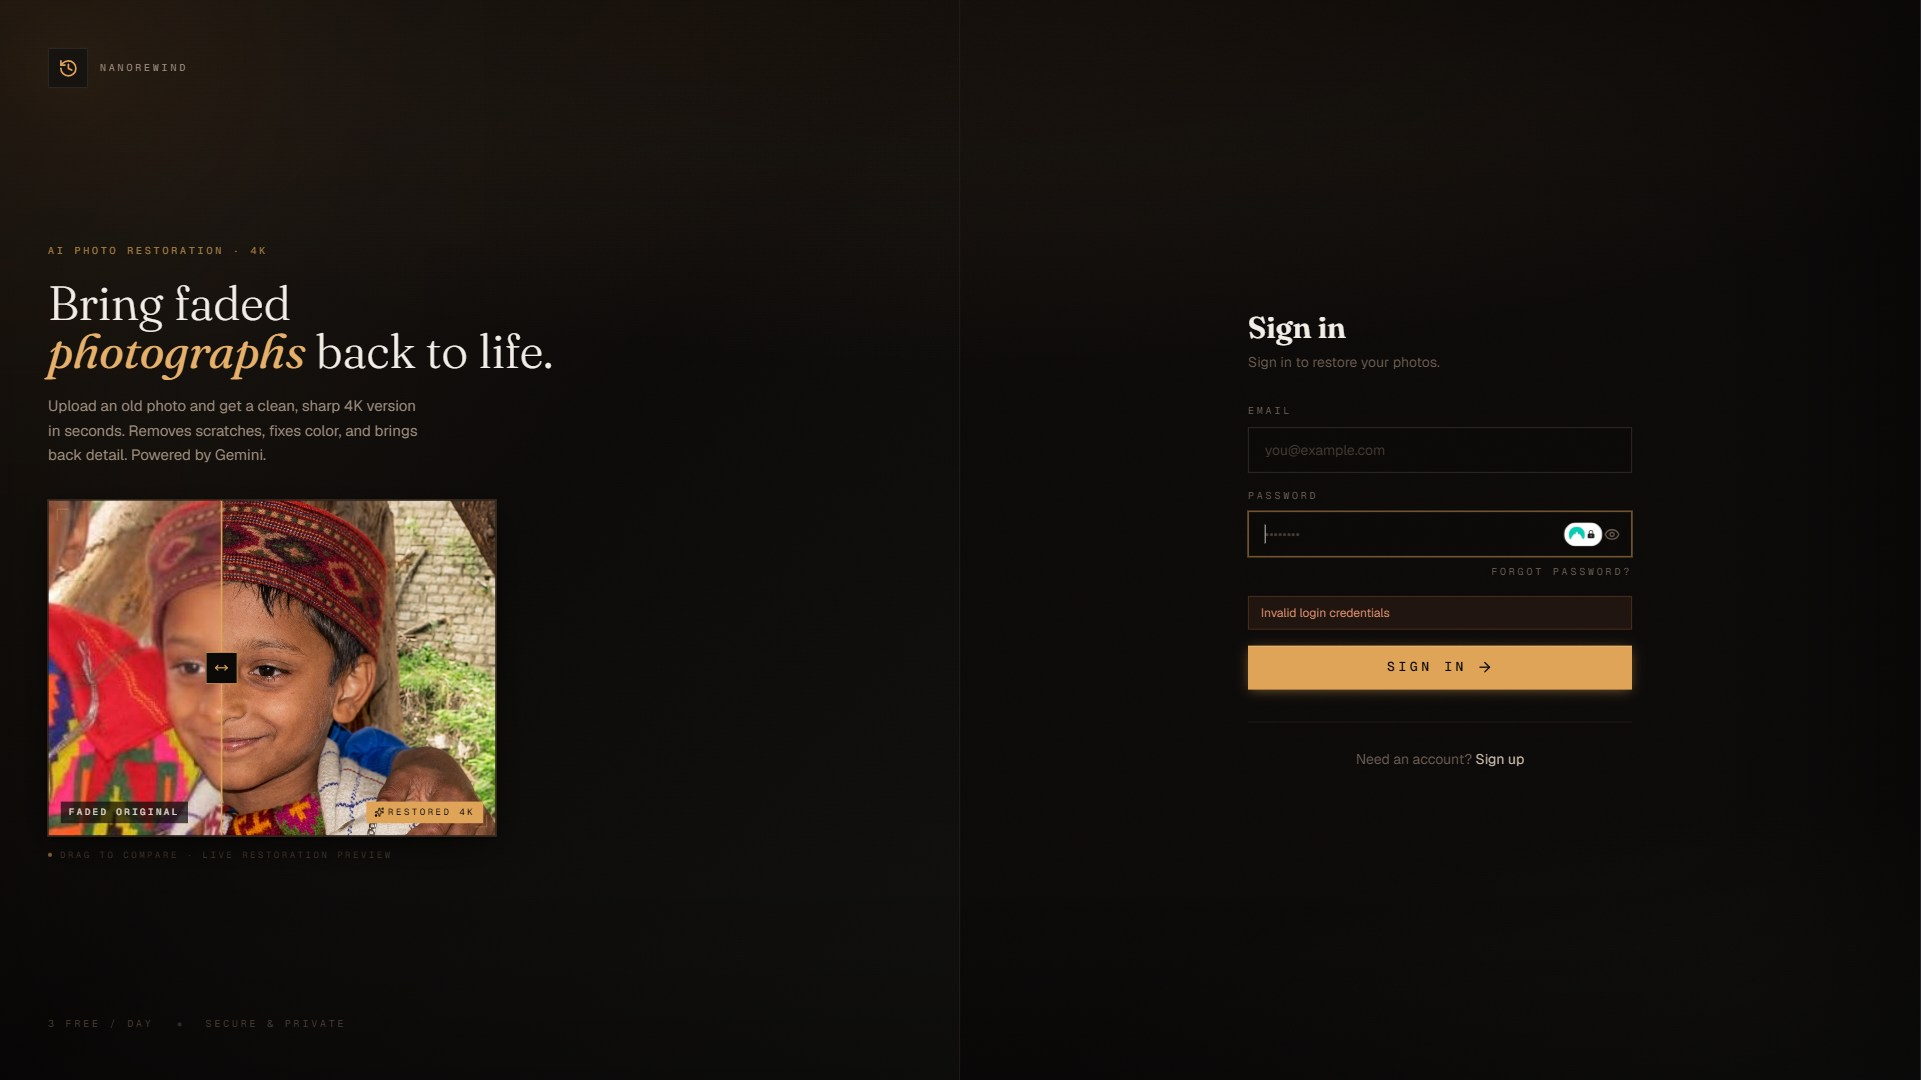
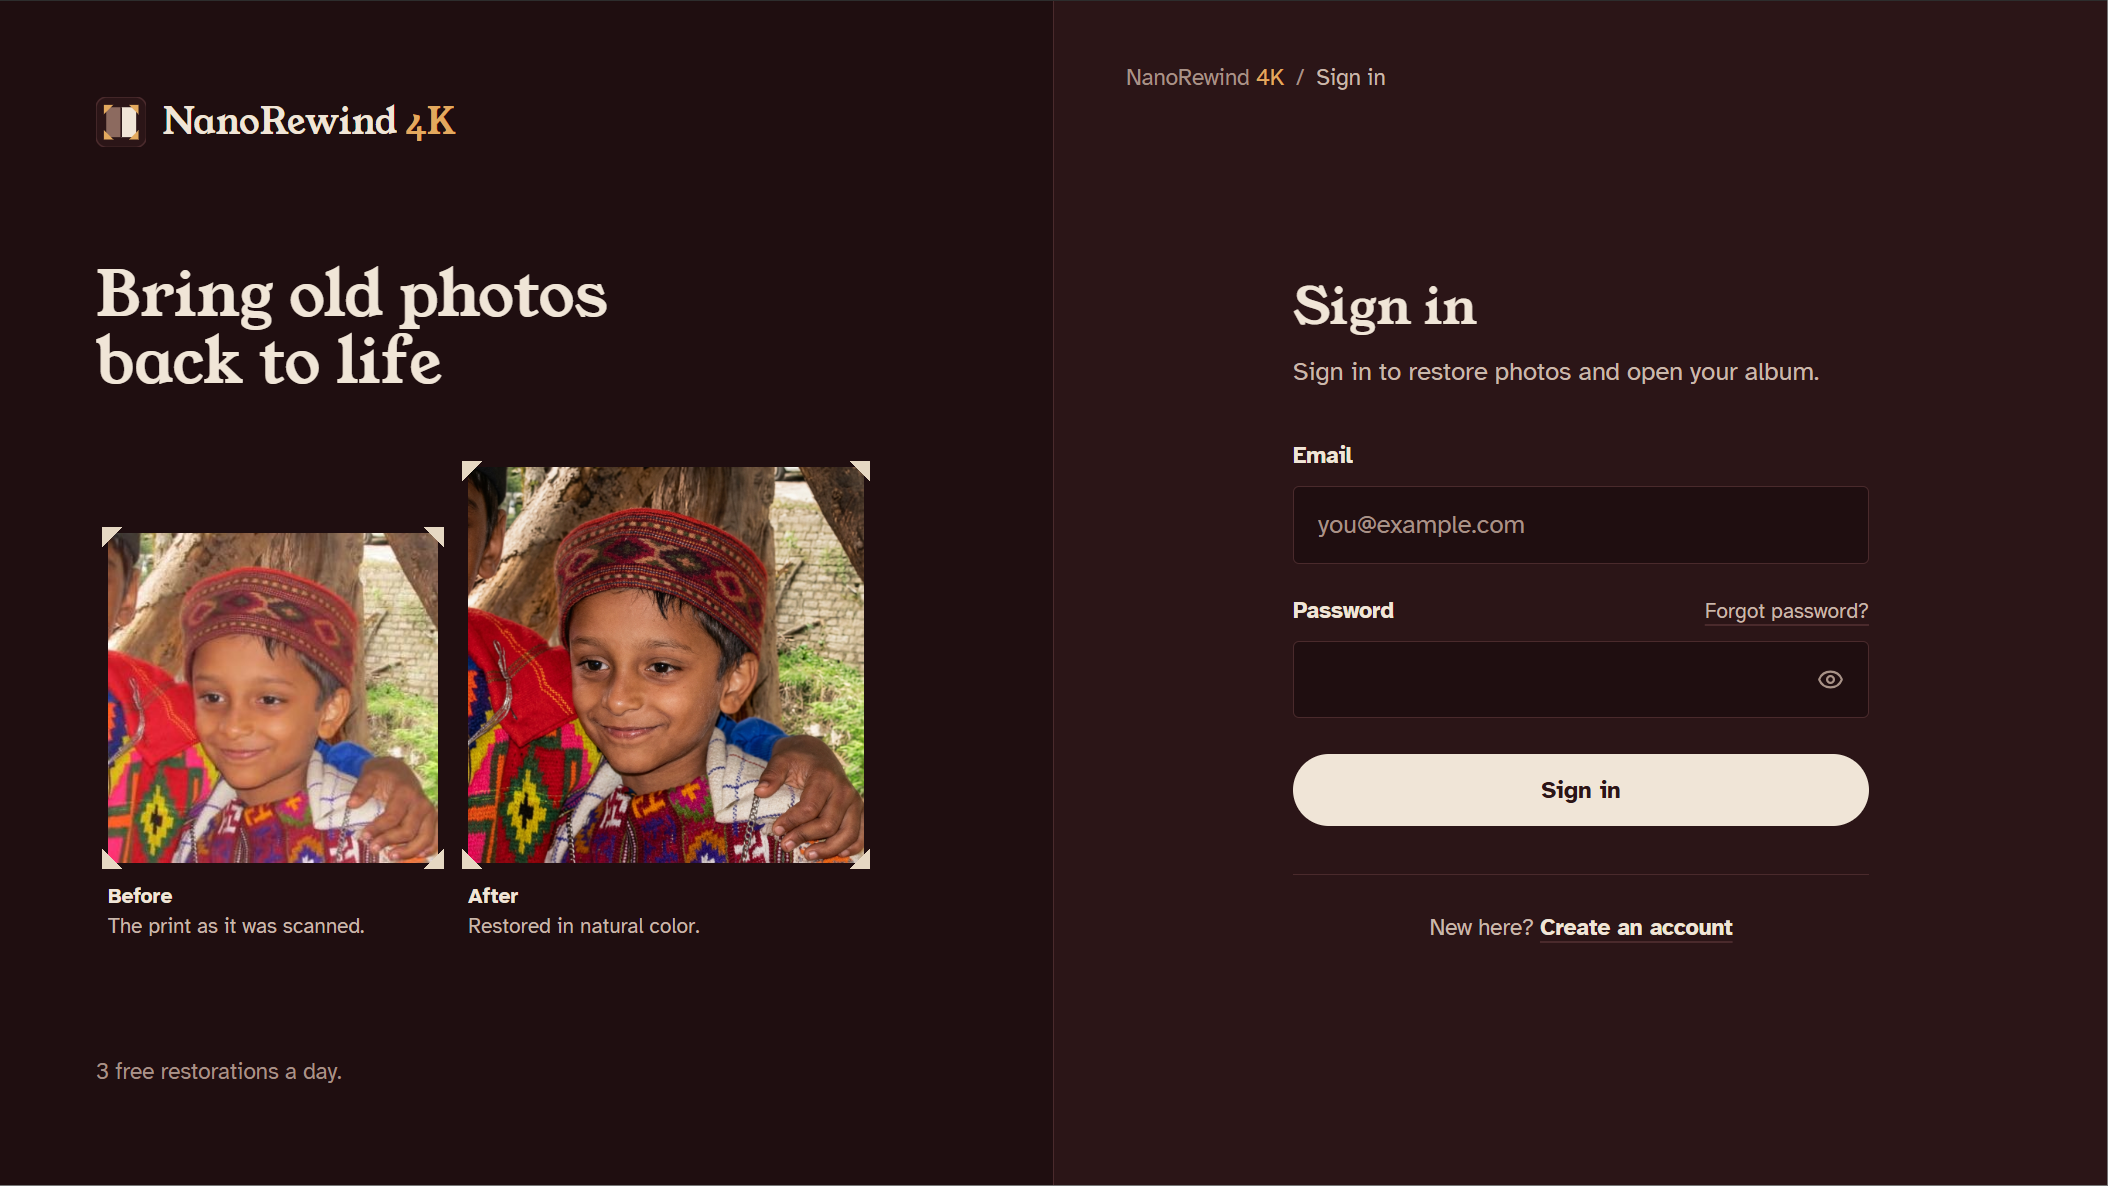
Updated nanorewind

diff --git a/src/lib/projectId.ts b/src/lib/projectId.ts
@@ -495,64 +495,66 @@ export const data: { [key: string]: projectData } = {
     ...getProjBase('nanorewind'),
     game: false,
     urls: [
-      { label: 'Live Project', icon: '', url: 'https://nanorewind-4k.vercel.app/' },
       { label: 'GitHub', icon: '', url: 'https://github.com/shaadqrsh/nanorewind-4k' },
+      { label: 'Live Site', icon: '', url: 'https://nanorewind-4k.vercel.app' },
     ],
-    desc: 'NanoRewind restores old, scratched, and blurry photographs to 4K using a Google Gemini image model. Beyond a straight repair, it can render a result in six photographic developer styles, from Silver Gelatin black and white to Kodachrome 64, with optional Chiaroscuro and Matte Emulsion treatments on top. A drag-to-reveal slider sits over the output so you can check the restoration against the original before downloading it. Every free account gets three restorations a day, counted server-side.',
+    desc: "NanoRewind 4K takes a scan of an old family photo and has Gemini's image model repair the scratches, tears and faded color. Before restoring you pick one of six photographic processes, like Cyanotype or Kodachrome 64, and afterwards you compare the result against the original with a loupe, a slider or side by side. Every restoration goes into a private album, and any of them can be published as an unlisted share link. Accounts start with 3 free credits and get 1 more every 24 hours. It is built to run in public, with privacy, terms and cookie policies, an 18+ sign-up check, WCAG AA contrast, full keyboard support and a strict Content Security Policy. Despite the name, output is about one megapixel for now.",
     features: [
       {
-        heading: 'Full 4K Photo Restoration',
-        content:
-          'Upload a damaged photo and it comes back repaired at full 4K. Scratches, blur, and age damage are handled in one pass.',
+        heading: 'Six Darkroom Processes & Atmospheric Modifiers',
+        content: 'Before restoring, you choose Standard, Silver Gelatin, Albumen, Cyanotype, Lumière Autochrome or Kodachrome 64. Two optional extras go on top: Chiaroscuro for deeper shadows and Matte Emulsion for softer, paper-like highlights.',
       },
       {
-        heading: 'Six Developer Processes',
-        content:
-          'The same restoration can be rendered as Standard, Silver Gelatin black and white, Albumen sepia, Cyanotype, Lumiere Autochrome, or Kodachrome 64. Chiaroscuro deepens the shadows and Matte Emulsion softens the highlights, and both can be layered on any process.',
+        heading: 'Loupe, Slider & Side-by-Side Comparison',
+        content: 'The loupe is a 2.4x lens that shows the restored photo over the original wherever you hover. The slider is drag to reveal, and side by side shows both images with their pixel sizes. The app remembers the mode you used last.',
       },
       {
-        heading: 'Drag-to-Reveal Before & After',
-        content:
-          'A slider sits over the result so you can drag across the image and see exactly what changed. The landing page runs the same comparison on a demo pair automatically.',
+        heading: 'Private Family Album',
+        content: 'Every restoration is saved to your album automatically. From there you can reopen one in the workspace with its original style settings, download it, share it or delete it. Settings has a single button that deletes every stored photo.',
       },
       {
-        heading: 'Server-Side Credit Ledger',
-        content:
-          'Each account gets three restorations a day. The count lives in Postgres and is deducted through a Supabase RPC, so the browser cannot alter its own balance.',
+        heading: 'Unlisted Share Links With Generated Preview Cards',
+        content: 'Sharing a photo gives it a link at /share/<id> with a before/after slider. Each link gets its own 1200x630 preview card for chat apps, drawn on the server with the before and after held in photo corners. Links are kept out of search engines and can be turned off at any time.',
       },
       {
-        heading: 'Zero-Secret Frontend',
-        content:
-          'The browser bundle holds no API keys. Gemini and database access run in Vercel serverless functions under /api, same-origin with the frontend, and the client only ever talks to those.',
+        heading: 'Batch Restore Queue',
+        content: 'Drop up to 10 photos and they restore one after another, each with its own status and progress bar. When credits run out, the rest are marked "No credits left" and get picked up on the next run. Photos over 3 MB are shrunk in the browser to fit Vercel\'s 4.5 MB request limit.',
+      },
+      {
+        heading: 'Locked-Down Accounts & Rate-Limited API',
+        content: 'Sessions live in HttpOnly cookies, and email links carry a one-time PKCE code that only works in the browser that asked for it. Restores are capped at 5 per 10 minutes per IP. Location and camera data are stripped from photos in the browser before upload.',
       },
     ],
     technologies: [
       { name: 'React', icon: 'icon_react.svg' },
       { name: 'TypeScript', icon: 'icon_typescript.svg' },
       { name: 'Vite', icon: 'icon_vite.svg' },
-      { name: 'Vercel', icon: 'icon_vercel.svg' },
+      { name: 'Tailwind CSS', icon: 'icon_tailwind.svg' },
+      { name: 'Node.js', icon: '' },
       { name: 'Supabase', icon: 'icon_supabase.svg' },
       { name: 'PostgreSQL', icon: 'icon_postgresql.svg' },
       { name: 'Google Gemini', icon: 'icon_gemini.svg' },
-      { name: 'Google AI Studio', icon: 'icon_google_ai.svg' },
-      { name: 'Claude Code', icon: 'icon_claude.svg' },
+      { name: 'Vercel', icon: 'icon_vercel.svg' },
+      { name: 'GitHub Actions', icon: '' },
     ],
     responsibilities: [
-      'Built the React 19 and Vite frontend, including the drag-to-reveal comparison slider and the developer-process picker.',
-      'Wrote the Vercel serverless API under /api in TypeScript, keeping the Gemini calls and all database access off the client.',
-      'Designed the Postgres schema in Supabase with row-level security and an RPC that deducts a credit atomically, so a user cannot spend the same credit twice.',
-      'Moved authentication from the browser to the backend, removing the Supabase SDK and both of its keys from the frontend bundle.',
-      'Prototyped and engineered prompts in Google AI Studio to fine-tune Gemini image restoration outputs across six photographic developer processes and atmospheric modifiers.',
-      'Leveraged Claude Code and AI-assisted tooling to scaffold architecture, generate Postgres RPC logic, and streamline full-stack iteration.',
-      'Configured a GitHub Actions workflow that pings Supabase hourly to stop the free-tier database from pausing.',
+      'Built the React 19 and TypeScript front end with Vite and Tailwind CSS, including the restore workspace, the album view and three before/after comparison modes.',
+      'Wrote Vercel serverless functions in TypeScript that call the Gemini image model, store originals and results in a private Supabase Storage bucket, and deduct credits through a Postgres RPC.',
+      'Designed the Supabase schema with row-level security and least-privilege grants, limiting each user to their own profile, album rows and storage folder.',
+      'Implemented per-IP rate limiting as a withRateLimit wrapper backed by an atomic sliding-window Postgres function that stores client IPs only as hashes.',
+      'Moved sign-in sessions to HttpOnly, SameSite=Strict cookies with server-side renewal, and switched confirmation and password reset emails to PKCE links.',
+      "Wrote privacy, terms and cookie policies covering India's DPDP Act and the GDPR, plus a Vite build plugin that prerenders them as static HTML and emits per-route meta tags and sitemap.xml.",
+      'Brought all text to WCAG AA contrast (lowest 5.37:1), added skip links and focus trapping in dialogs, and code-split the bundle to cut home page JavaScript from 91 to 79 KB gzipped.',
     ],
     videos: [],
     additional: [
-      'Built solo using Claude Code and AI-assisted workflows alongside Google AI Studio across 48 commits from December 2025 to July 2026, accelerating iteration on both code and generative prompts.',
-      'It started with Supabase running in the browser. I pulled the SDK and both keys out of the frontend and rewrote auth to run server-side, so the client now holds no secrets at all.',
-      'The developer processes came out of wanting more than a clean repair. A restored photo that looks like a Cyanotype or a Kodachrome slide is more interesting than one that just looks new.',
-      'A saved archive was designed and never built: a Supabase Storage bucket scoped per user, list and delete endpoints, and a grid view for reloading past restorations. The schema and endpoints are specified in the TO-DO but the work stopped before them.',
-      'The free tier is capped at three restorations a day because Gemini image calls cost money and the app has no revenue.',
+      'A solo personal project, built on and off between December 2025 and November 2026.',
+      "The \"4K\" is only the name. Free restorations come out at about one megapixel, and I rewrote the landing page, terms and preview card to say so. Real 4K output is planned for a paid tier with Stripe, which I haven't built yet.",
+      "Some of my own marketing copy was wrong. \"3 free restorations a day\" didn't match the logic, which refills 1 credit every 24 hours, and \"a few seconds\" was closer to a minute. I fixed both everywhere, including the preview image.",
+      'I ran a security audit partway through. It found a token leak in the Decap CMS login proxy that lives in this repo, where any website could receive a CMS user\'s GitHub token. It now only goes to an allowlist of origins, and the same pass took dependency advisories from 23 to 0.',
+      'I left out a public gallery on purpose. These are mostly family photos, so share links stay unlisted.',
+      "For the redesign I wrote a list of things I didn't want it to look like: purple and black, glassmorphism, bento grids, Inter. I picked an oxblood family-album look out of three mockups.",
+      "Before calling it ready for the public I spent a whole phase on compliance and accessibility. It is 18+ because India's DPDP Act treats under-18s as children and the Gemini API terms rule them out. I also dropped Google Fonts, since it sent every visitor's IP to Google, and now self-host the fonts.",
     ],
   },
   emaadportfolio: {
